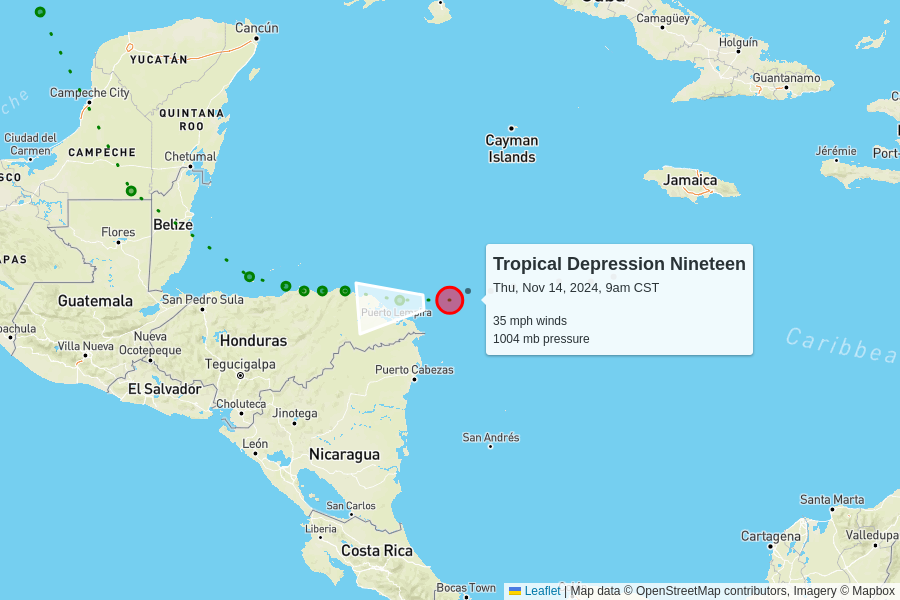
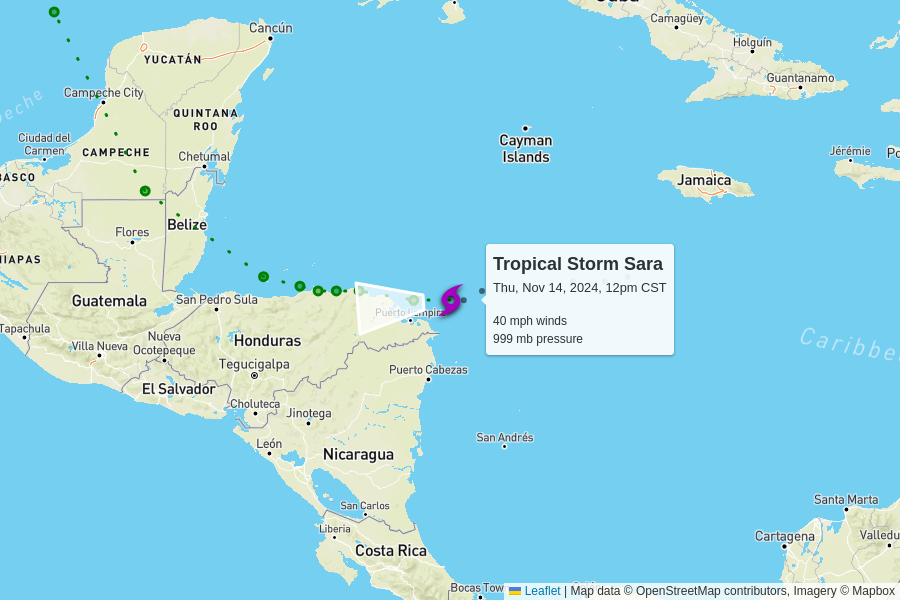
automatic update

diff --git a/docs/index.html b/docs/index.html
@@ -101,8 +101,8 @@
       <tr>
         <td colspan="6" class="storm category-0" >
           <h2>
-            Tropical Depression Nineteen
-            <p class="updated">last updated <span data-time>2024-11-14T15:00:00.000Z</span></p>
+            Tropical Storm Sara
+            <p class="updated">last updated <span data-time>2024-11-14T18:00:00.000Z</span></p>
           </h2>
         </td>
       </tr>
@@ -117,15 +117,15 @@
       </tr>
       <tr>
         <td class="spacer"></td>
-        <td>35 mph<br>0 mph since last update</td>
-        <td>1004 mb<br>0 mb since last update</td>
+        <td>40 mph<br>+5 mph since last update</td>
+        <td>999 mb<br>-5 mb since last update</td>
         <td>
-          14 mph to the west
+          12 mph to the west
           <br/>
           <span style="display: inline-block; font-size: 1.5em; transform: rotate(265deg);">↑</span>
         </td>
         <td><a href="https://raw.githubusercontent.com/mgwalker/atlantic-hurricanes/main/data/csv/AL192024.csv">AL192024.csv</a></td>
-        <td><a href="https://www.nhc.noaa.gov/archive/2024/NINETEEN.shtml?">NHC advisories</a></td>
+        <td><a href="https://www.nhc.noaa.gov/archive/2024/SARA.shtml?">NHC advisories</a></td>
       </tr>
       <tr id="storm_AL192024" >
         <td class="spacer">
